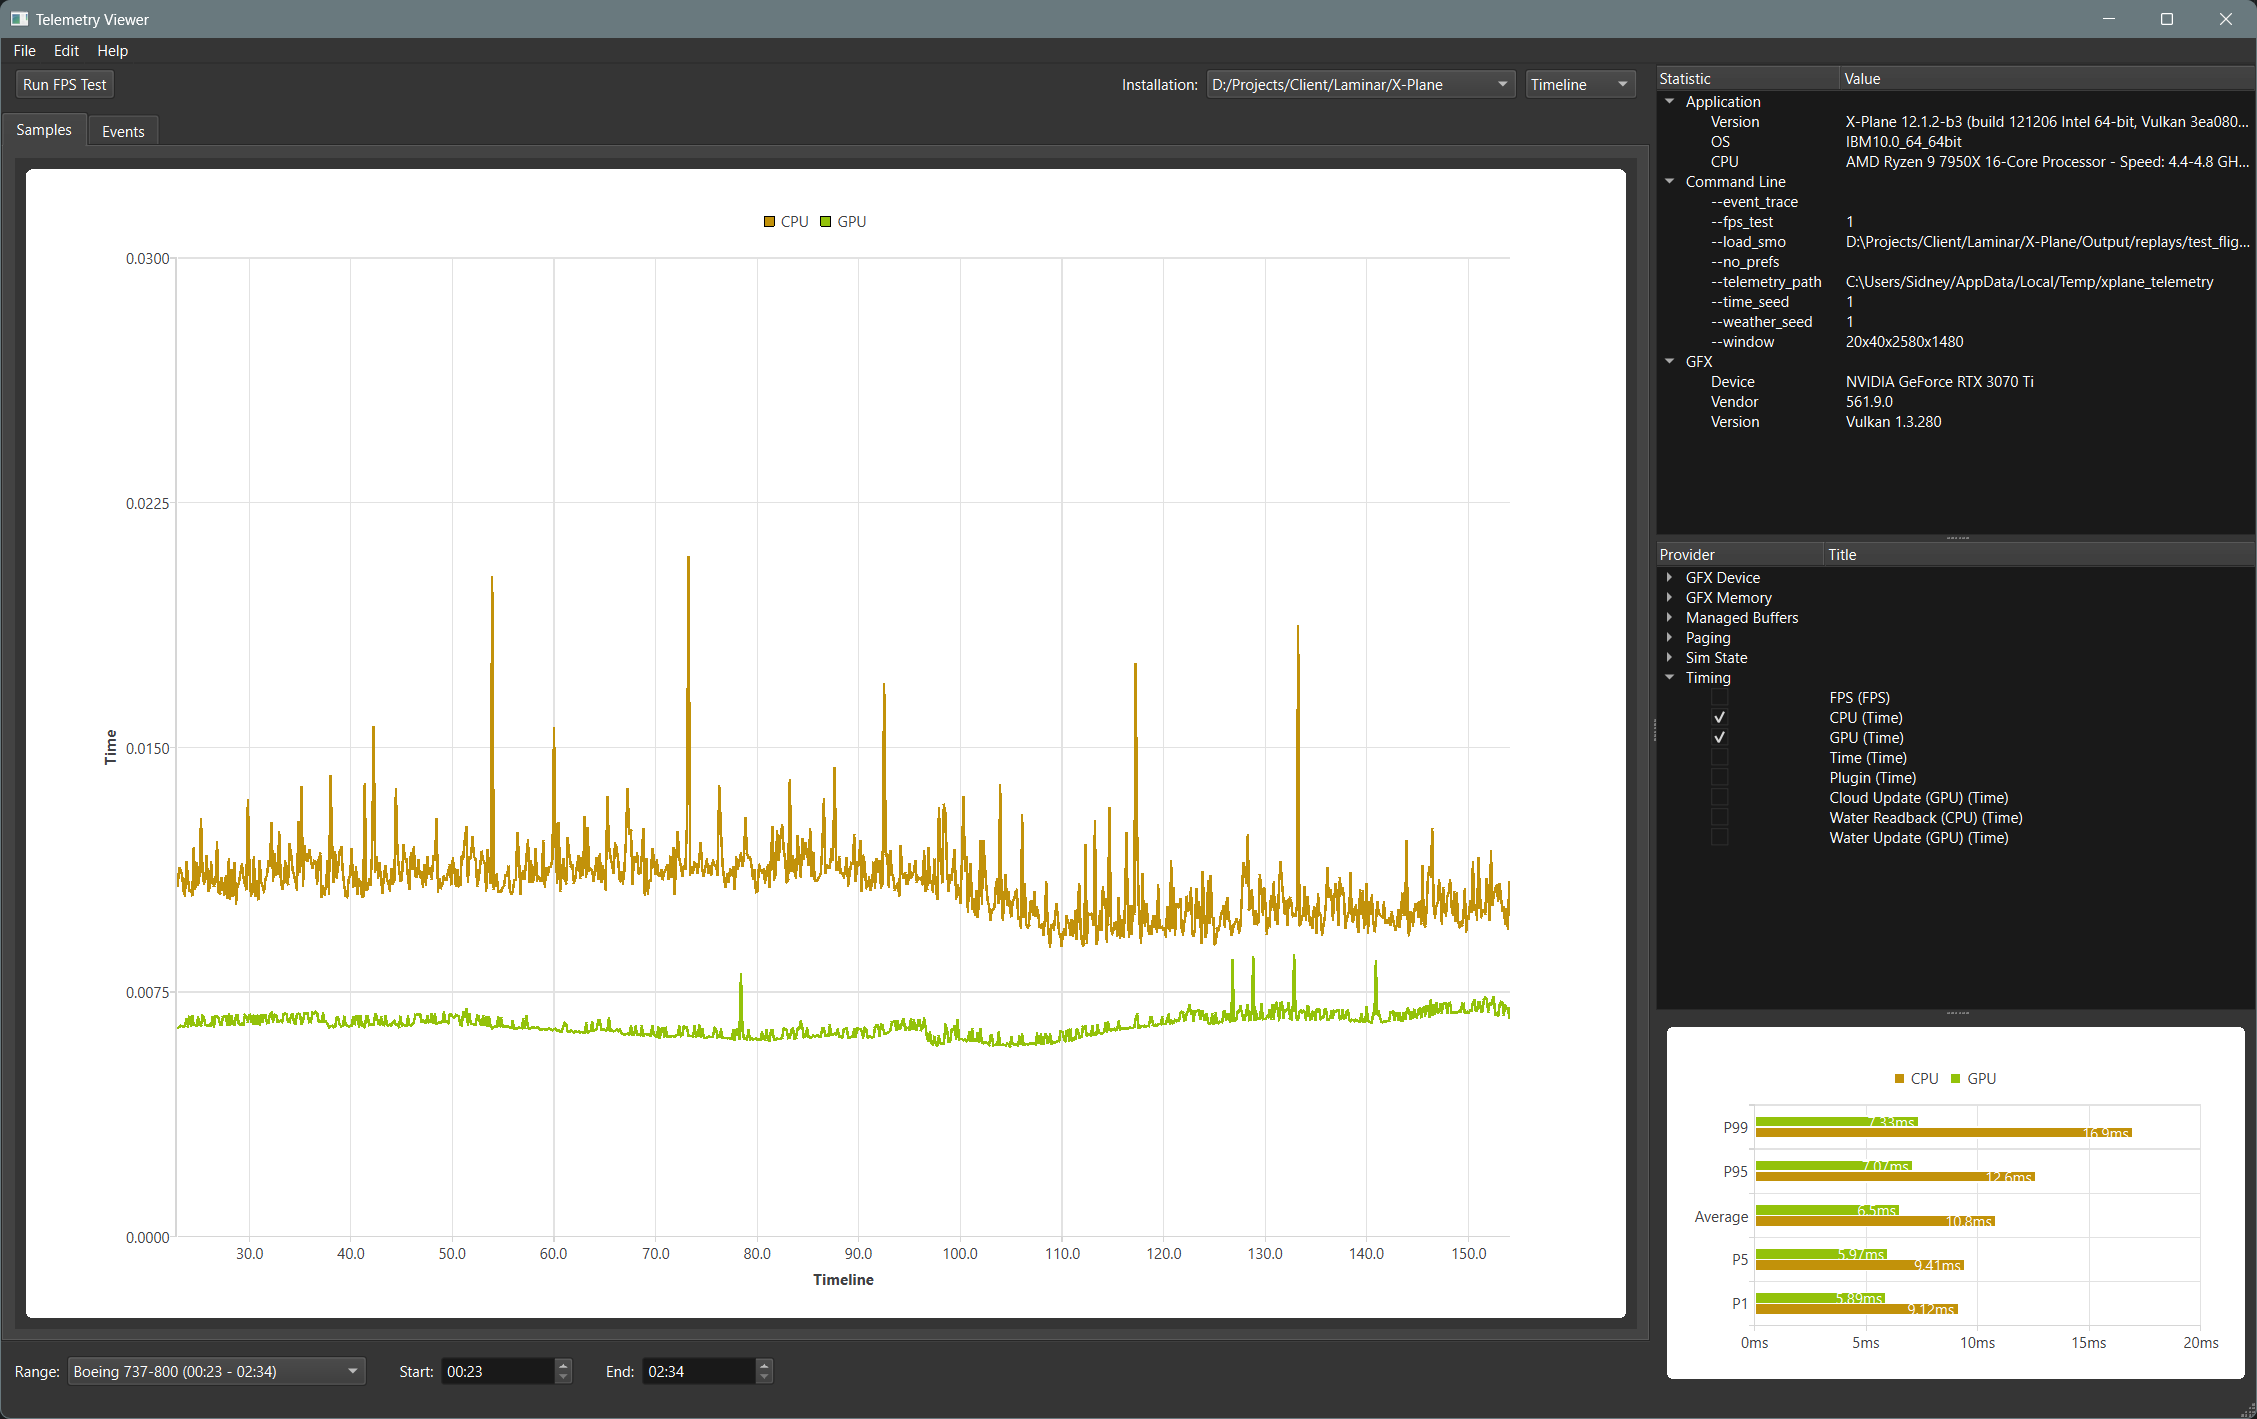
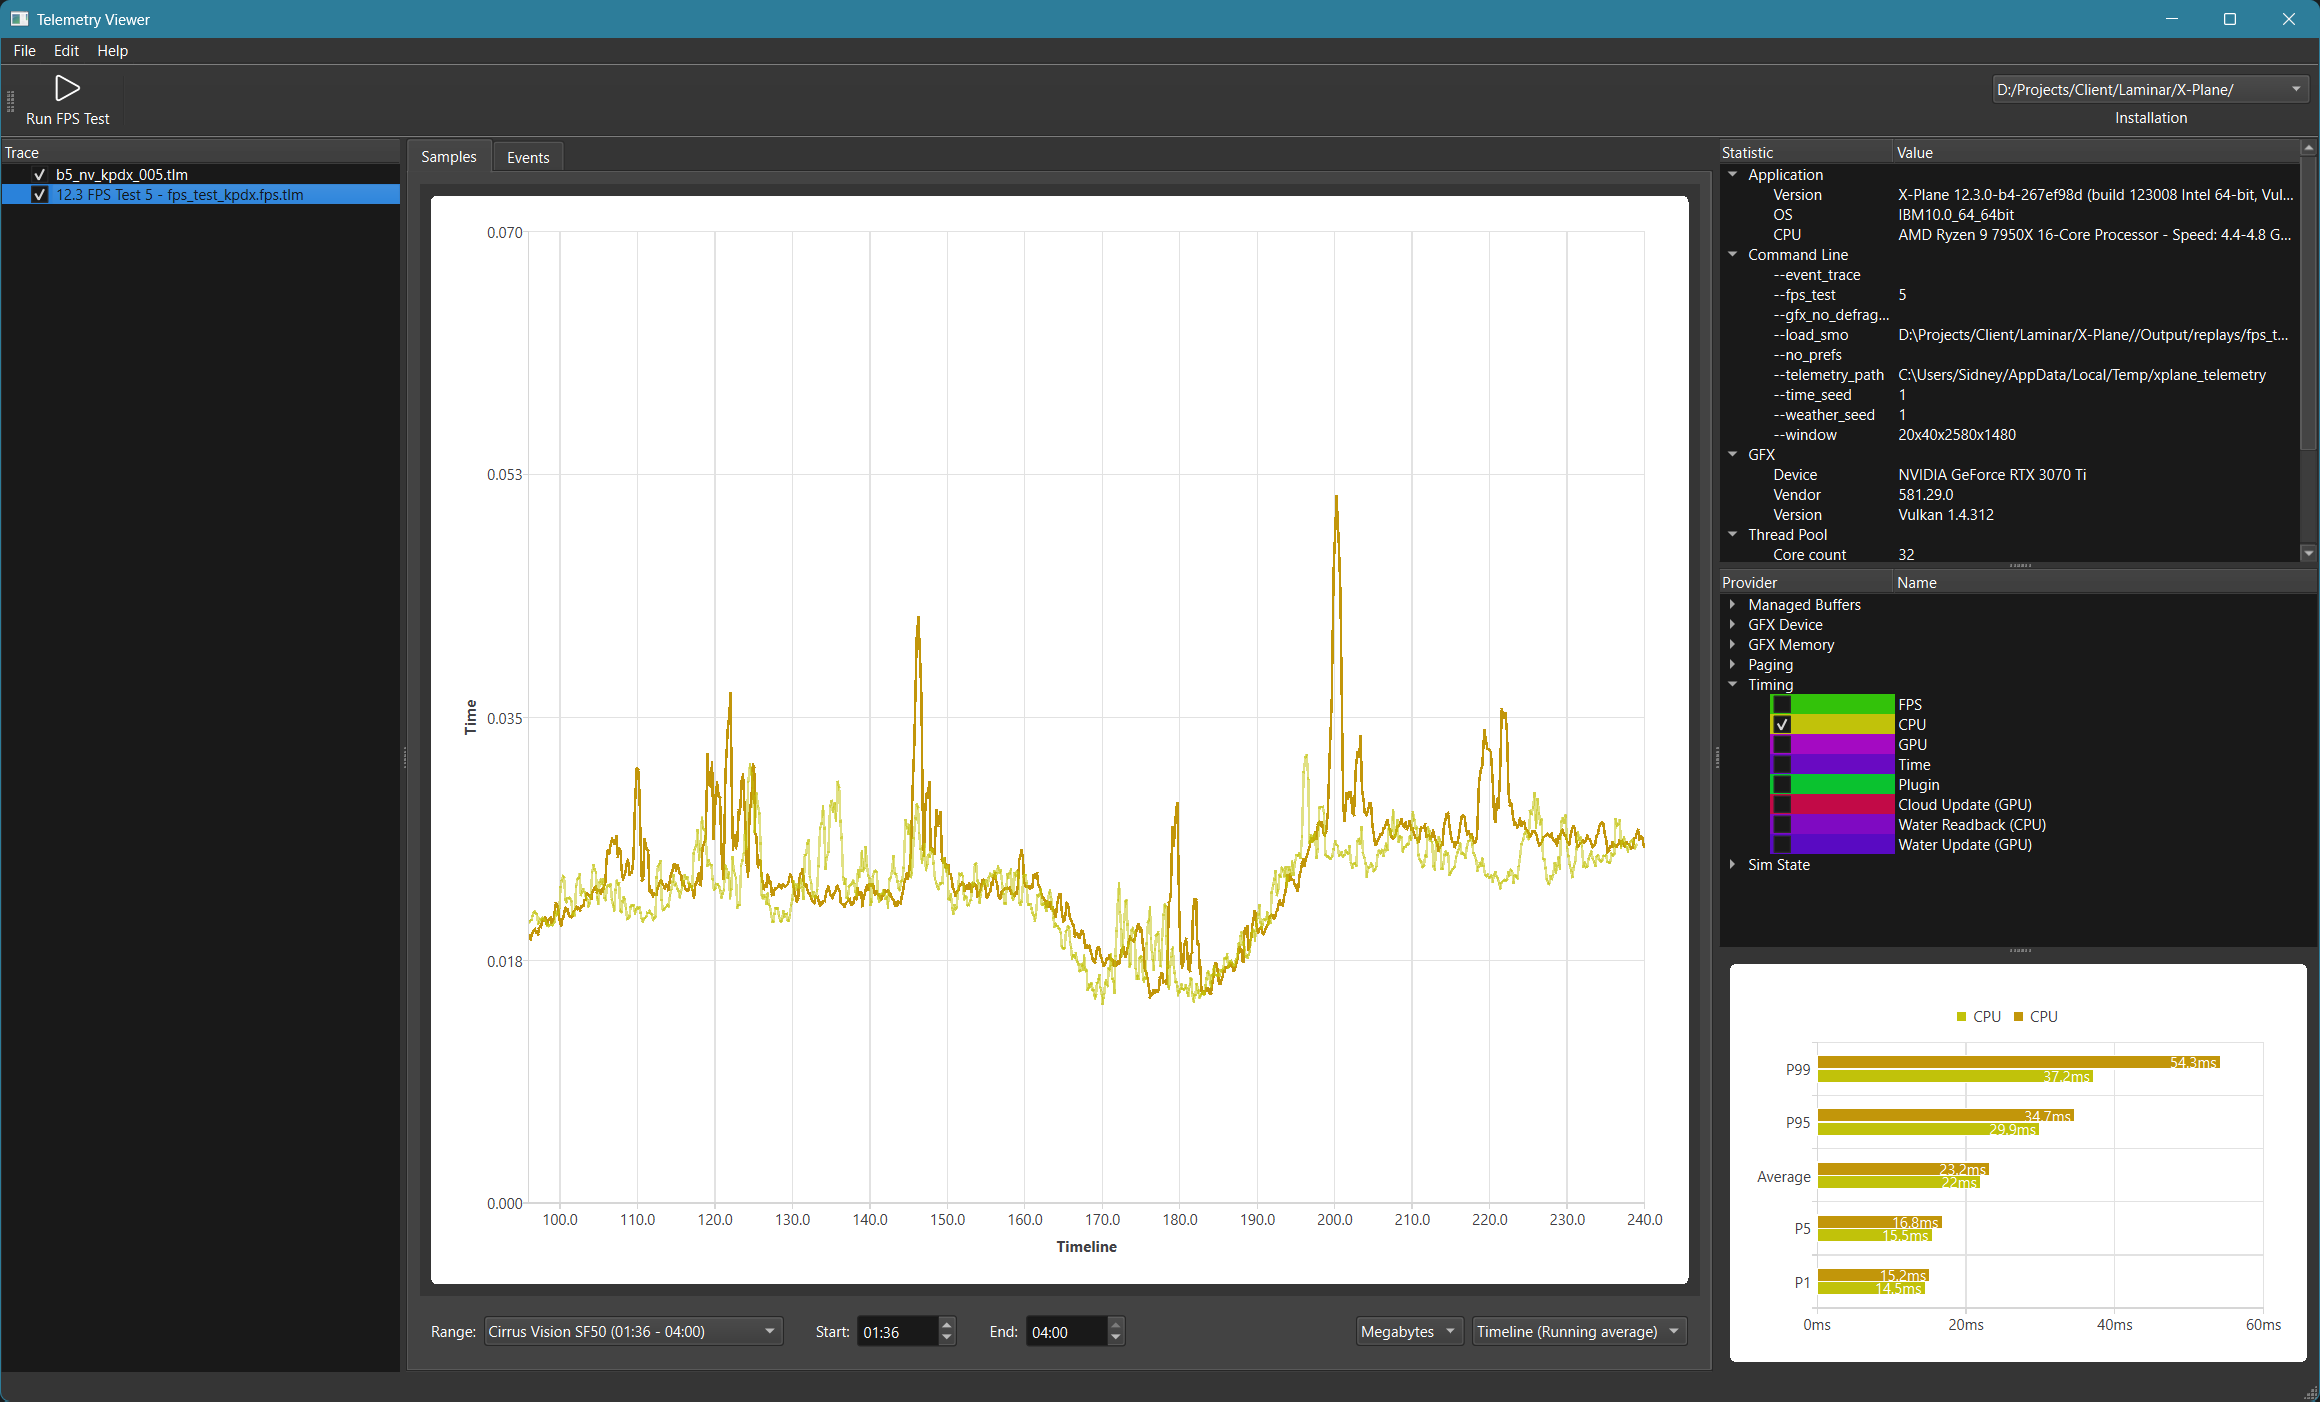
Update to v0.6.0

diff --git a/README.md b/README.md
@@ -5,6 +5,8 @@ Telemetry Viewer is a Qt 6 based application that can be used to inspect [X-Plan
 ## Performance testing
 One of the main use cases for Telemetry Viewer is performance testing. To make this as easy as possible, Telemetry Viewer has a built-in FPS test utility that can launch X-Plane with various configurations while also providing stable seeds to the various random number generators to make A/B testing possible. Note that FPS testing is not easily possible with the Steam version due to the way Steam handles launching of applications and passing of command line arguments.
 
+It's possible to compare multiple traces against each other. In those cases Telemetry Viewer will try to correct timestamp offsets within event groups to correctly overlay them. Opening multiple telemetry files can be done by either selecting multiple files in the file dialogue, dragging and dropping multiple files into the window or holding ctrl while dragging one or more additional files into the window.
+
 ## Telemetry files
 X-Plane telemetry files include data from various providers within the sim. Each data point is associated with a timestamp making plotting of the data easy. Despite what their name suggests, telemetry files are only stored locally and rotated between X-Plane runs.
 

diff --git a/CHANGELOG.md b/CHANGELOG.md
@@ -1,3 +1,9 @@
+# v0.6.0
+This release brings with it the ability to open multiple traces and overlay them on top of each other to better compare performance tests
+
+ - Dragging multiple files into the window will open all traces at once
+ - Holding ctrl while dragging one or more files into the window will open the files on top of the additional files
+
 # v0.5.0
 This release is the first step towards getting this project put into proper shape to be used in the field
 
